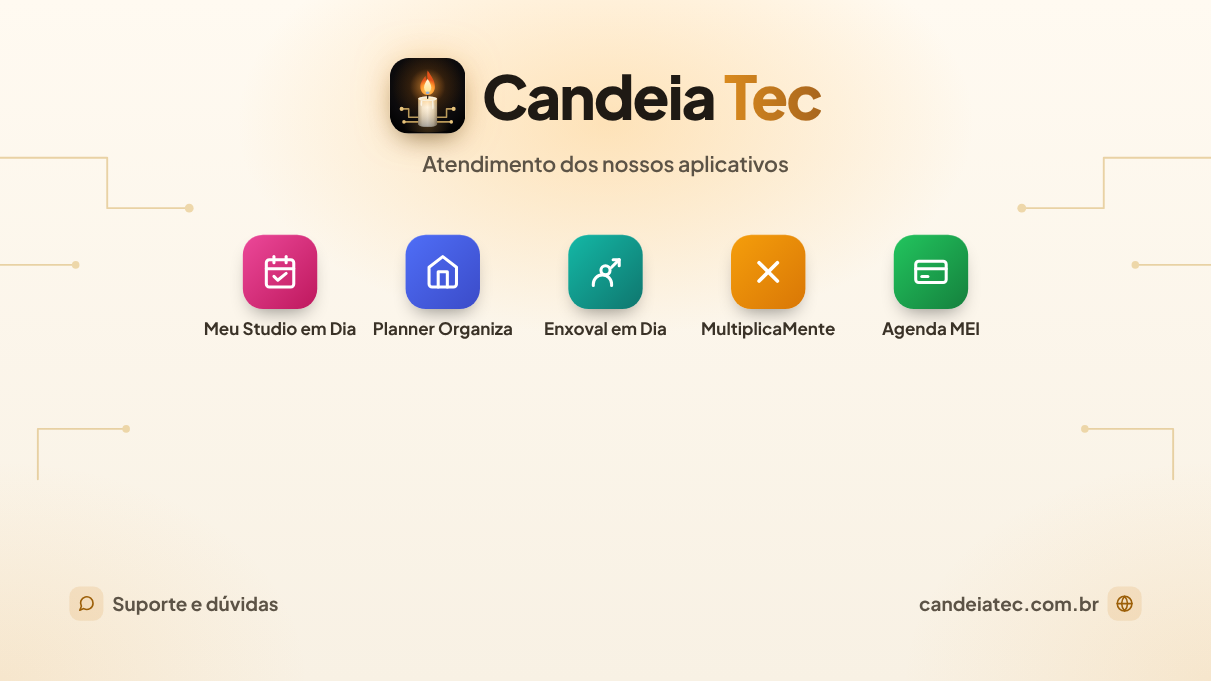
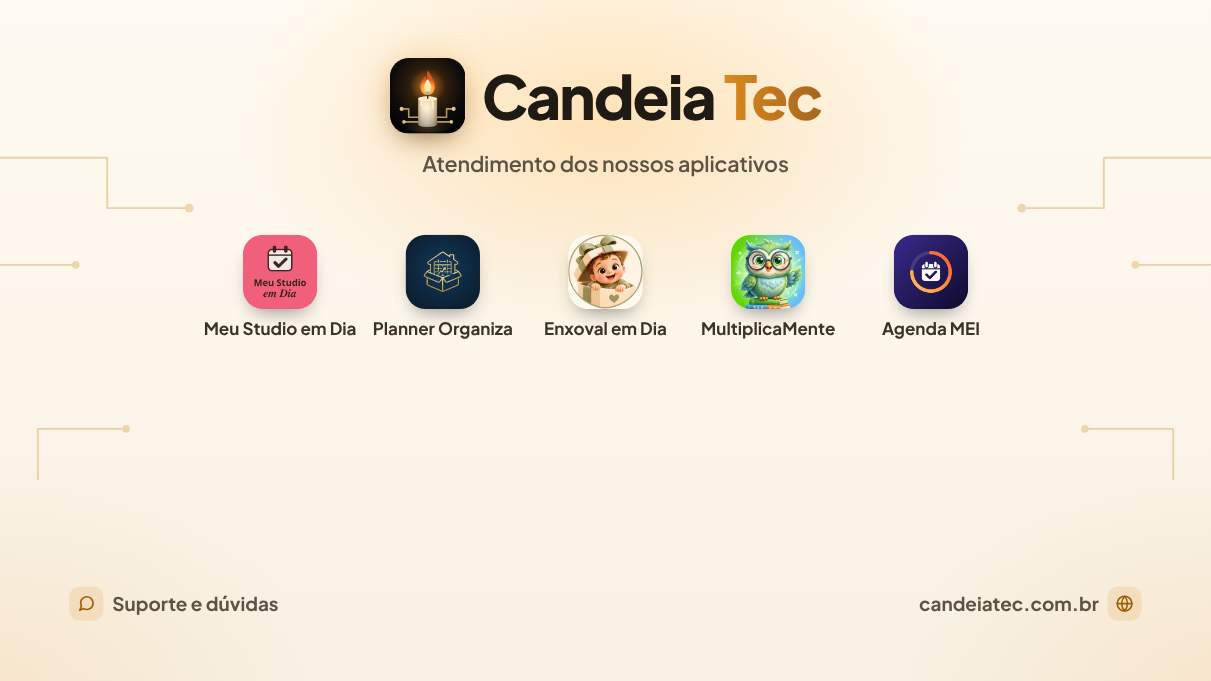
WhatsApp: capa com os ícones reais dos apps
Ícones copiados dos repositórios de cada app (assets/icon.png; no
MultiplicaMente, o AppIcon do iOS, sem moldura) para
marca/whatsapp/icones/ e usados no lugar dos desenhos genéricos.

Claude-Session: https://claude.ai/code/session_01KNLstin5RMyapNtnfSVLvQ

diff --git a/marca/whatsapp/capa.html b/marca/whatsapp/capa.html
@@ -2,7 +2,8 @@
 <html lang="pt-BR">
 <head>
 <meta charset="UTF-8">
-<!-- Capa do WhatsApp Business da Candeia Tec — 1920×1080 (16:9).
+<!-- Ícones reais de cada app (marca/whatsapp/icones/), copiados dos repositórios dos apps.
+     Capa do WhatsApp Business da Candeia Tec — 1920×1080 (16:9).
      O WhatsApp mostra a capa numa faixa ~2:1 (corta ~60 px em cima e embaixo)
      e a foto do perfil cobre o centro de baixo: essa área fica livre.
      Gerar PNG: node marca/whatsapp/gerar.js -->
@@ -29,7 +30,7 @@ body{font-family:'Plus Jakarta Sans',system-ui,sans-serif;color:#1F1A14;position
 .app{width:244px;text-align:center;white-space:nowrap}
 .ic{width:118px;height:118px;margin:0 auto 14px;border-radius:32px;display:flex;align-items:center;justify-content:center;color:#fff;
   box-shadow:0 16px 30px -14px rgba(0,0,0,.45),inset 0 1px 0 rgba(255,255,255,.25)}
-.ic svg{width:58px;height:58px}
+.ic{object-fit:cover;display:block}
 .app span{display:block;font-size:27px;font-weight:700;line-height:1.2;color:#3A3227}
 /* cantos de baixo, fora da foto do perfil */
 .corner{position:absolute;bottom:96px;font-size:30px;font-weight:700;color:#5C5346;display:flex;align-items:center;gap:14px}
@@ -51,11 +52,11 @@ body{font-family:'Plus Jakarta Sans',system-ui,sans-serif;color:#1F1A14;position
 </div>
 
 <div class="apps">
-  <div class="app"><div class="ic" style="background:linear-gradient(135deg,#EC4899,#BE185D)"><svg viewBox="0 0 24 24" fill="none" stroke="currentColor" stroke-width="2" stroke-linecap="round" stroke-linejoin="round"><rect x="3" y="4" width="18" height="18" rx="2"/><line x1="16" y1="2" x2="16" y2="6"/><line x1="8" y1="2" x2="8" y2="6"/><line x1="3" y1="10" x2="21" y2="10"/><path d="M8 15l2.5 2.5L16 13"/></svg></div><span>Meu Studio em Dia</span></div>
-  <div class="app"><div class="ic" style="background:linear-gradient(135deg,#4F6EF7,#3B4BC8)"><svg viewBox="0 0 24 24" fill="none" stroke="currentColor" stroke-width="2" stroke-linecap="round" stroke-linejoin="round"><path d="M3 9l9-7 9 7v11a2 2 0 01-2 2H5a2 2 0 01-2-2z"/><polyline points="9 22 9 12 15 12 15 22"/></svg></div><span>Planner Organiza</span></div>
-  <div class="app"><div class="ic" style="background:linear-gradient(135deg,#14B8A6,#0F766E)"><svg viewBox="0 0 24 24" fill="none" stroke="currentColor" stroke-width="2" stroke-linecap="round" stroke-linejoin="round"><path d="M9 11a3 3 0 106 0 3 3 0 00-6 0z"/><path d="M4 21v-1a6 6 0 0112 0v1"/><path d="M17 4h4v4"/><path d="M21 4l-5 5"/></svg></div><span>Enxoval em Dia</span></div>
-  <div class="app"><div class="ic" style="background:linear-gradient(135deg,#F59E0B,#D97706)"><svg viewBox="0 0 24 24" fill="none" stroke="currentColor" stroke-width="2.4" stroke-linecap="round"><line x1="6" y1="6" x2="18" y2="18"/><line x1="18" y1="6" x2="6" y2="18"/></svg></div><span>MultiplicaMente</span></div>
-  <div class="app"><div class="ic" style="background:linear-gradient(135deg,#22C55E,#15803D)"><svg viewBox="0 0 24 24" fill="none" stroke="currentColor" stroke-width="2" stroke-linecap="round" stroke-linejoin="round"><rect x="2" y="5" width="20" height="14" rx="2"/><line x1="2" y1="10" x2="22" y2="10"/><line x1="6" y1="15" x2="10" y2="15"/></svg></div><span>Agenda MEI</span></div>
+  <div class="app"><img class="ic" src="icones/meu-studio-em-dia.png" alt=""><span>Meu Studio em Dia</span></div>
+  <div class="app"><img class="ic" src="icones/planner-organiza.png" alt=""><span>Planner Organiza</span></div>
+  <div class="app"><img class="ic" src="icones/enxoval-em-dia.png" alt=""><span>Enxoval em Dia</span></div>
+  <div class="app"><img class="ic" src="icones/multiplicamente.png" alt=""><span>MultiplicaMente</span></div>
+  <div class="app"><img class="ic" src="icones/agenda-mei.png" alt=""><span>Agenda MEI</span></div>
 </div>
 
 <div class="corner l"><i><svg viewBox="0 0 24 24" fill="none" stroke="currentColor" stroke-width="2.2" stroke-linecap="round" stroke-linejoin="round"><path d="M21 11.5a8.4 8.4 0 01-12.6 7.3L3 21l2.2-5.4A8.5 8.5 0 1121 11.5z"/></svg></i>Suporte e dúvidas</div>
